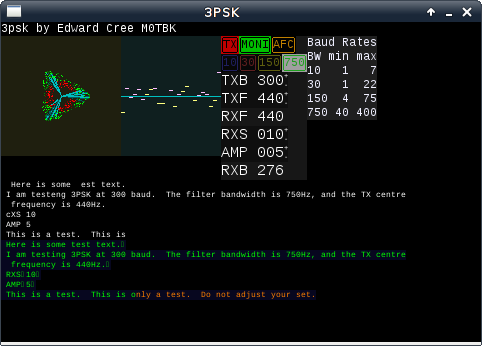
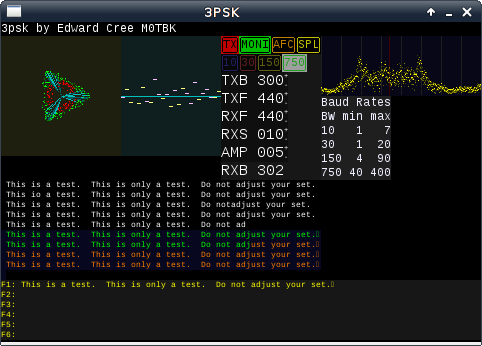
Doc updates (spectrogram)

diff --git a/readme.htm b/readme.htm
@@ -30,10 +30,11 @@
 <img src="screenshot.png" />
 <p>The two graphics to the left indicate the operation of the decoder.  On the left is the <em>constellation diagram</em>, which should be familiar to most datamode users.  The points plotted on it represent the incoming signal (magnitude and phase), and form into a characteristic shape when a valid signal is received.  In the case of 3PSK, the characteristic shape is an equilateral triangle (sometimes with curved edges, if heavy filtering is present).</p>
 <p>The constellation diagram also shows something else, which is perhaps less familiar; each time a transition is accepted, a cyan line is drawn to mark it.  This is useful because a 3PSK decoder recovers each clock tick individually, and different failure modes have different effects on the recovery.  If no cyan lines at all are appearing, probably RXS is too high; if they're appearing in all directions, probably RXS is too low.  When correct decoding is taking place, the cyan lines should run to the vertices of the triangle, as can be seen in the above screenshot.</p>
-<p>To the right of the constellation diagram is the <em>frequency offset graph</em>.  This is mainly used for debugging the operation of the <acronym title="Automatic Frequency Control">AFC</acronym> and can probably be ignored.  Again, the screenshot shows normal operation; in this case, the graph stays close to the x-axis.</p>
+<p>To the right of the constellation diagram is the <em>frequency offset graph</em>.  This is an aid to tuning in signals; the average y co-ordinate of the marks indicates the amount by which the signal is detuned.  Again, the screenshot shows normal operation; in this case, the graph stays close to the x-axis.  It will be below this axis if RXF is too low, and above it if RXF is too high.</p>
 <p>Continuing to the right, we encounter the <em>codec controls</em>.  The top row of buttons are toggles.  <tt>TX</tt> controls whether to Transmit or Receive.  <tt>MONI</tt> enables the monitor; that is, when transmitting, 3psk will decode its own outgoing audio.  <tt>AFC</tt> enables Automatic Frequency Control, which attempts to tune signals in (though it doesn't work very well).  <tt>SPL</tt> lights up whenever the transmit and receive frequencies are different; clicking it sets the receive frequency equal to the transmit frequency.</p>
-<p>Below these toggle buttons is the <em>bandwidth selector</em>.  The four buttons each select a filter bandwidth (in Hz).  You need a wider bandwidth to decode signals at higher baud rates; the table to the right gives an indication of what speeds each bandwidth covers.</p>
+<p>Below these toggle buttons is the <em>bandwidth selector</em>.  The four buttons each select a filter bandwidth (in Hz).  You need a wider bandwidth to decode signals at higher baud rates; the table to the lower right gives an indication of what speeds each bandwidth covers.</p>
 <p>Below this are the numeric controls.  Note that you can move them in larger increments by right-clicking the +/- buttons, or change them quickly by scrolling the mousewheel while hovering over them.  <tt><strong>TXB</strong></tt> is Transmit Baud rate.  <tt><strong>TXF</strong></tt> is Transmit Frequency (in Hz).  <tt><strong>RXF</strong></tt> is Receive Frequency.  <tt><strong>RXS</strong></tt> is Receive Sensitivity, the magic fudge factor you tweak to make the decoder work.  <tt><strong>AMP</strong></tt> is amplification, or gain.  <tt><strong>RXB</strong></tt> is the Receive Baud rate; that is, the number of transitions per second the decoder is accepting.  This should be stable when receiving a valid signal.</p>
+<p>At the rightmost edge is the <em>spectrogram</em>.  The TXF (red) and RXF (green) are marked, as are 100Hz intervals (grey).  Left-clicking sets both TXF and RXF; right-clicking sets RXF only.</p>
 <p>The bottom of the screen consists of the output and input text areas and the macros.  Decoded text appears in white and scrolls upwards (5 lines of text are displayed).  Input text appears in red, then turns green after it has been transmitted.  Clicking on a macro line selects it for editing; clicking it again unselects it.</p>
 </div><!--#controls-->
 <div id="hotkeys">

diff --git a/spec_3psk.htm b/spec_3psk.htm
@@ -41,7 +41,7 @@
 </div><!--#fundamentals-->
 <div id="theory">
 <h2>Theoretical Considerations</h2>
-<p>It must be stressed that the gains provided by 3PSK are not, mathematically speaking, 'free'; there is a drop in signal-to-noise performance due to the fact that we are only carrying 1 bit of data from a channel with 3 states (i.e., log<sub>2</sub>(3) &asymp; 1.58 bits); thus the signal-to-noise ratio is effectively worsened by about 1.5<acronym title="decibels">dB</acronym>.  However, this can usually be made up for with only a small reduction in baud rate (and hence bandwidth), and since this is usually much smaller than the 'steps' between the various agreed-upon BPSK baud rates, 3PSK should typically outperform BPSK in most operational conditions.  For instance, if speed is simply not required, the lowest BPSK can go is typically 31.25 baud, whereas 3PSK can be operated at speeds right down to 1 baud, which, if suitably narrow filters are used, can reasonably be expected to punch through even in the presence of very heavy noise; certainly the gain by using less than a sixth of the bandwidth more than offsets the 1.5dB cost for the extra state.  A possible further refinement would be 5-, 9-, 17- etc. phase keying: the cost of the extra symbol is reduced in each case as it is spread over more data bits, but higher order PSK generally performs worse in noisy conditions, which may cancel out this benefit in some use cases.  Further discussion of these matters may be forthcoming in the future.</p>
+<p>It must be stressed that the gains provided by 3PSK are not, mathematically speaking, 'free'; there is a drop in signal-to-noise performance due to the fact that we are only carrying 1 bit of data from a channel with 3 states (i.e., log<sub>2</sub>(3) &asymp; 1.58 bits); thus the signal-to-noise ratio is effectively worsened by about 1.5<acronym title="decibels">dB</acronym>.  However, this can usually be made up for with only a small reduction in baud rate (and hence bandwidth), and since this is usually much smaller than the 'steps' between the various agreed-upon BPSK baud rates, 3PSK should typically outperform BPSK in most operational conditions.  For instance, if speed is simply not required, the lowest BPSK can go is typically 31.25 baud, whereas 3PSK can be operated at speeds right down to 1 baud, which, if suitably narrow filters are used, can reasonably be expected to punch through even in the presence of very heavy noise; certainly the gain by using a tiny fraction of the bandwidth more than offsets the 1.5dB cost for the extra state.  A possible further refinement would be 5-, 9-, 17- etc. phase keying: the cost of the extra symbol is reduced in each case as it is spread over more data bits, but higher order PSK generally performs worse in noisy conditions, which may cancel out this benefit in some use cases.  Further discussion of these matters may be forthcoming in the future.</p>
 </div><!--#theory-->
 <div id="implementation">
 <h2>Implementation</h2>
